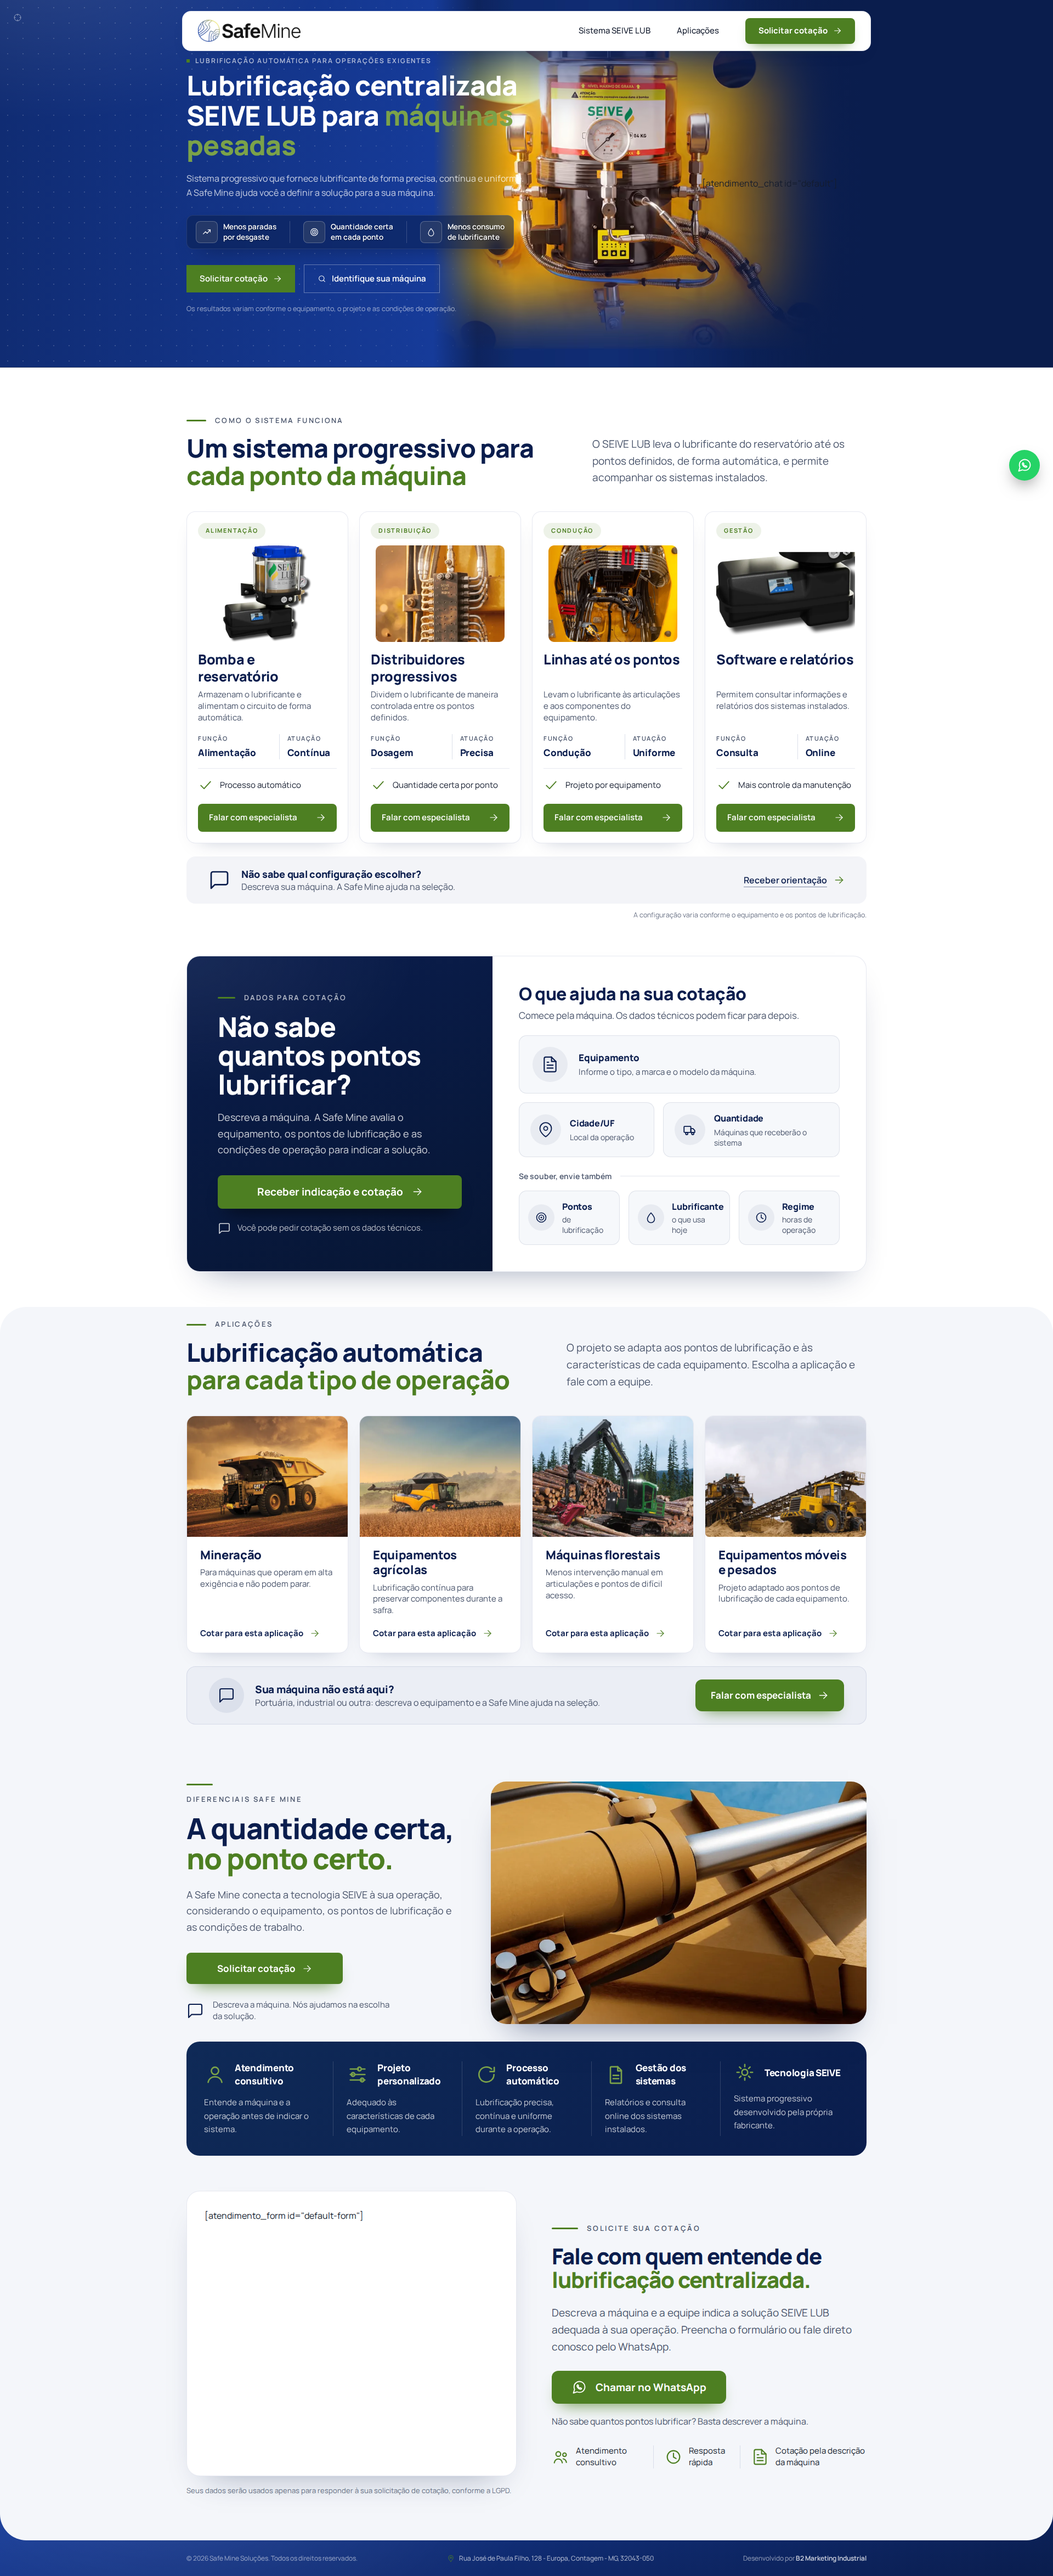
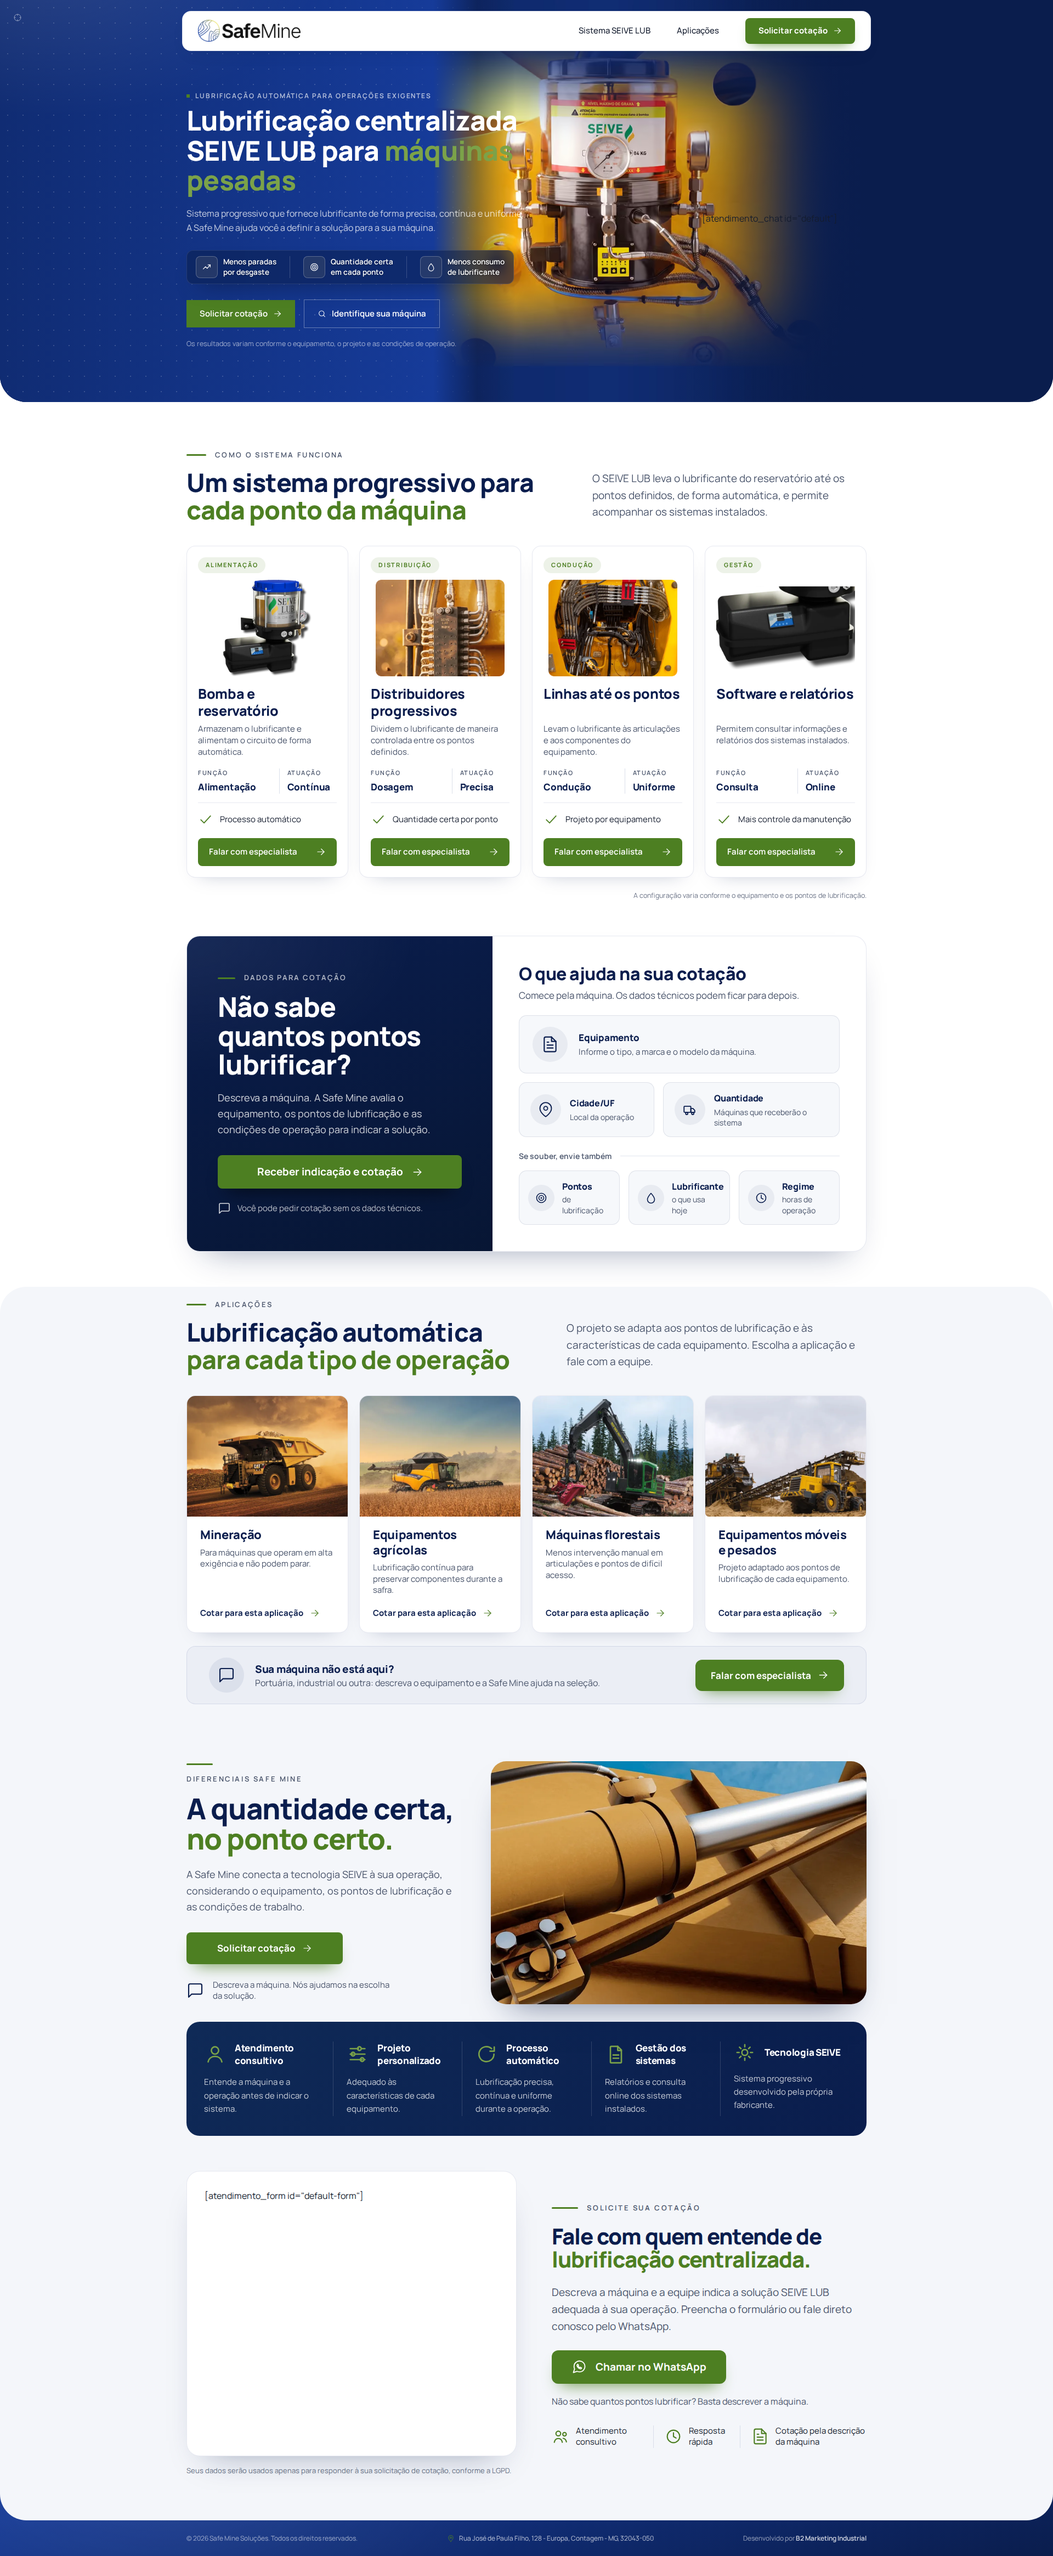
fix(linhas): remove a faixa de ajuda repetida antes do bloco Identificar
"Não sabe qual configuração escolher?" e "Não sabe quantos pontos
lubrificar?" faziam o mesmo pedido em sequência. Fica o bloco Identificar,
que traz o CTA principal. Screenshots regerados.

diff --git a/src/data/sections/linhas.ts b/src/data/sections/linhas.ts
@@ -36,11 +36,6 @@ export const productLines = {
   text: 'O SEIVE LUB leva o lubrificante do reservatório até os pontos definidos, de forma automática, e permite acompanhar os sistemas instalados.',
   /** Rótulos das duas primeiras features de cada card. */
   specLabels: ['Função', 'Atuação'],
-  help: {
-    title: 'Não sabe qual configuração escolher?',
-    text: 'Descreva sua máquina. A Safe Mine ajuda na seleção.',
-    cta: 'Receber orientação',
-  },
   note: 'A configuração varia conforme o equipamento e os pontos de lubrificação.',
   items: [
     {
@@ -86,7 +81,6 @@ export const productLines = {
   titleHighlight: string
   text: string
   specLabels: readonly [string, string]
-  help: { title: string; text: string; cta: string }
   note: string
   items:
     | readonly [ProductLine, ProductLine, ProductLine]

diff --git a/docs/BRIEFING.md b/docs/BRIEFING.md
@@ -67,6 +67,7 @@ Certificações, patente, números da SEIVE, "primeira fornecedora brasileira", 
 
 - **Header:** barra branca flutuante com a logo da Safe Mine, pedida pela B2 em 29/10/2026 com o mockup do topo. A assinatura do `check:lp` conhece essa estrutura.
 - **Hero:** sem desvio. O Hero da primeira versão (fundo claro, sem a coluna do chat) foi substituído em 01/11/2026 pelo da estrutura fixa 4.1.2: grid `1fr · 270px · 300px`, coluna 2 vazia, slot `shortcode` de 300px, foto de 1700px ancorada na borda do container. A faixa de quatro prioridades e o cartão de ajuda do hero saíram; a nota de resultados ficou sob os botões.
+- **Linhas:** `ProductLines.astro` sem a faixa "Não sabe qual configuração escolher?" (01/11/2026), por repetir o bloco `identificar` logo abaixo. Recompor com `compose.mjs` sobrescreve o arquivo: guarde esta versão antes.
 - **Paleta:** os véus do hero usam o azul `#0a1d4d` da marca no lugar do navy `#001830` do template. O token `accent-orange-light` (`#7ba249`) existe só para o destaque do H1 sobre o fundo escuro.
 
 ## Limitações conhecidas
